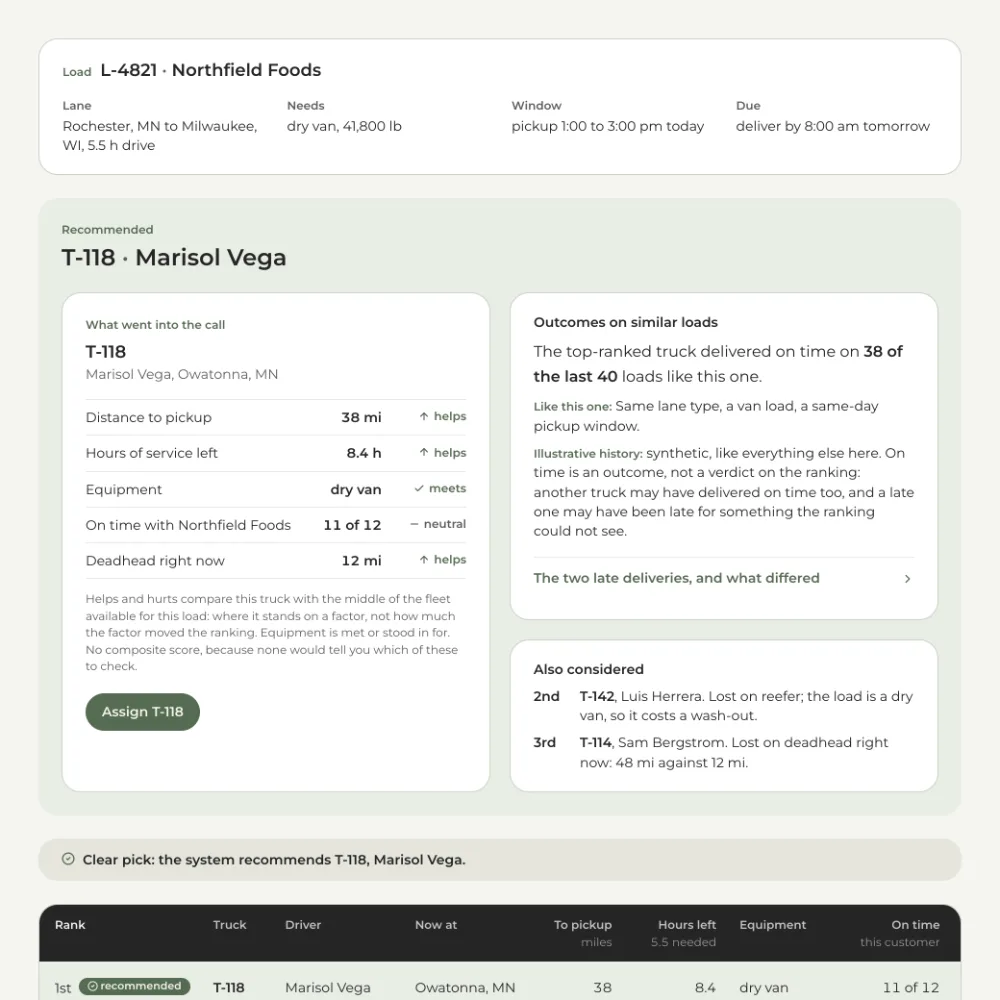
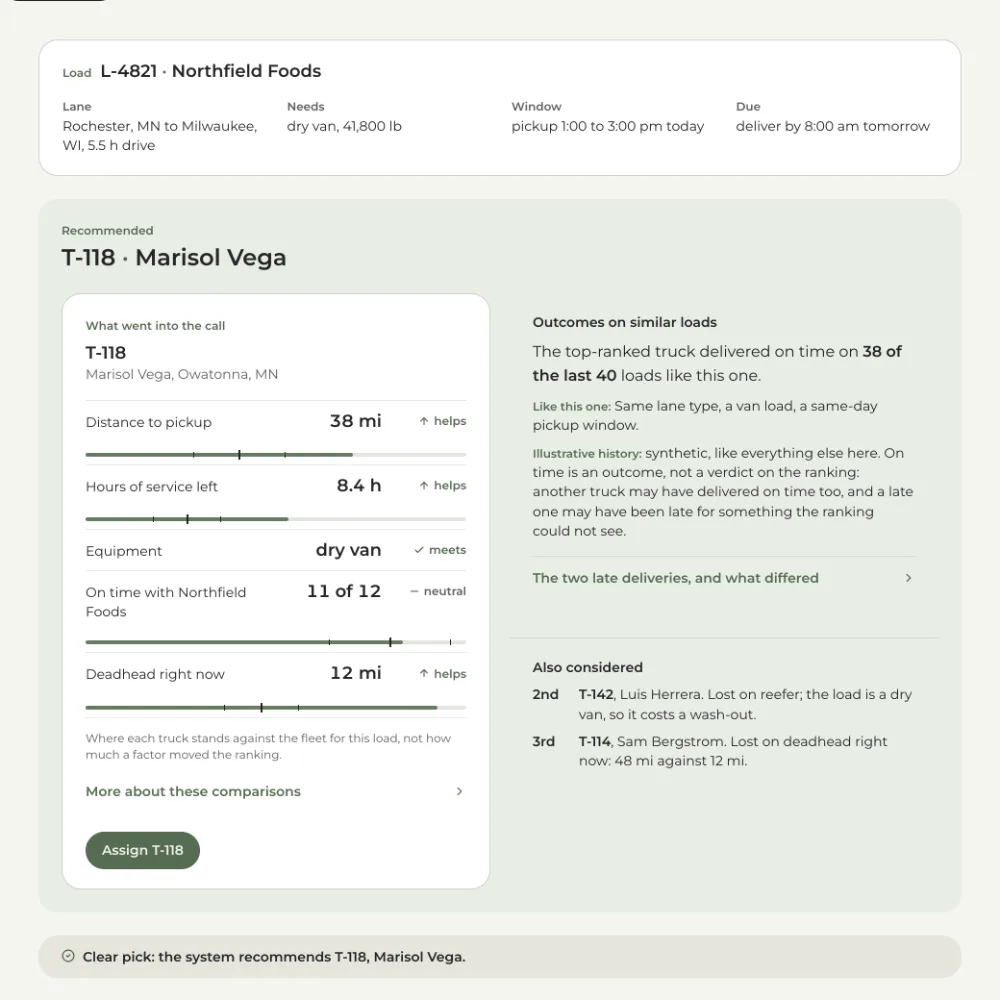
The prototype's own card is a picture of the prototype as it is now (#94)
img/site/dispatch-cockpit.webp is the capture og.mjs frames, and it was
taken before any of this week's work: no fleet bars, factor values at label
size, a white evidence card beside a white factor card, the 50-word note in
the open. The share card built from it was showing a screen that no longer
exists, which for the one image that travels off the site -- into a Slack
unfurl, a LinkedIn preview, a search result -- is the worst place to be
stale.

Re-run in order, because the second reads the first: cockpit.mjs for the
capture, then og.mjs for the card. Both the og:image meta and the JSON-LD
image get the new buster; they carry the same URL and would otherwise
disagree. seo.mjs --write in the same commit, which moved the page's
dateModified stamp and the sitemap entry with it.

Nothing else on the site points at either file, so this is the prototype's
own two images and no others.

diff --git a/prototype/dispatch-cockpit.html b/prototype/dispatch-cockpit.html
@@ -18,7 +18,7 @@
   <meta property="og:url" content="https://adamhickey.com/prototype/dispatch-cockpit.html" />
   <meta property="og:title" content="A dispatch cockpit that shows its work | Adam Hickey" />
   <meta property="og:description" content="A self-directed prototype of an AI truck recommendation for freight dispatch, on synthetic data: the factors weighed and where each one stands, outcomes from similar loads instead of a confidence percentage, a one-click override that asks why afterwards, and the whole fleet always in reach." />
-  <meta property="og:image" content="https://adamhickey.com/img/og/dispatch-cockpit.jpg?v=6" />
+  <meta property="og:image" content="https://adamhickey.com/img/og/dispatch-cockpit.jpg?v=7" />
   <meta property="og:image:width" content="1200" />
   <meta property="og:image:height" content="630" />
   <meta name="twitter:card" content="summary_large_image" />
@@ -38,9 +38,9 @@
           "description": "A self-directed prototype of an AI truck recommendation for freight dispatch, on synthetic data: the factors weighed and where each one stands, outcomes from similar loads instead of a confidence percentage, a one-click override that asks why afterwards, and the whole fleet always in reach.",
           "url": "https://adamhickey.com/prototype/dispatch-cockpit.html",
           "mainEntityOfPage": "https://adamhickey.com/prototype/dispatch-cockpit.html",
-          "image": "https://adamhickey.com/img/og/dispatch-cockpit.jpg?v=6",
+          "image": "https://adamhickey.com/img/og/dispatch-cockpit.jpg?v=7",
           "datePublished": "2026-09-10",
-          "dateModified": "2026-09-11",
+          "dateModified": "2026-09-12",
           "author": {
             "@id": "https://adamhickey.com/#adam"
           },
